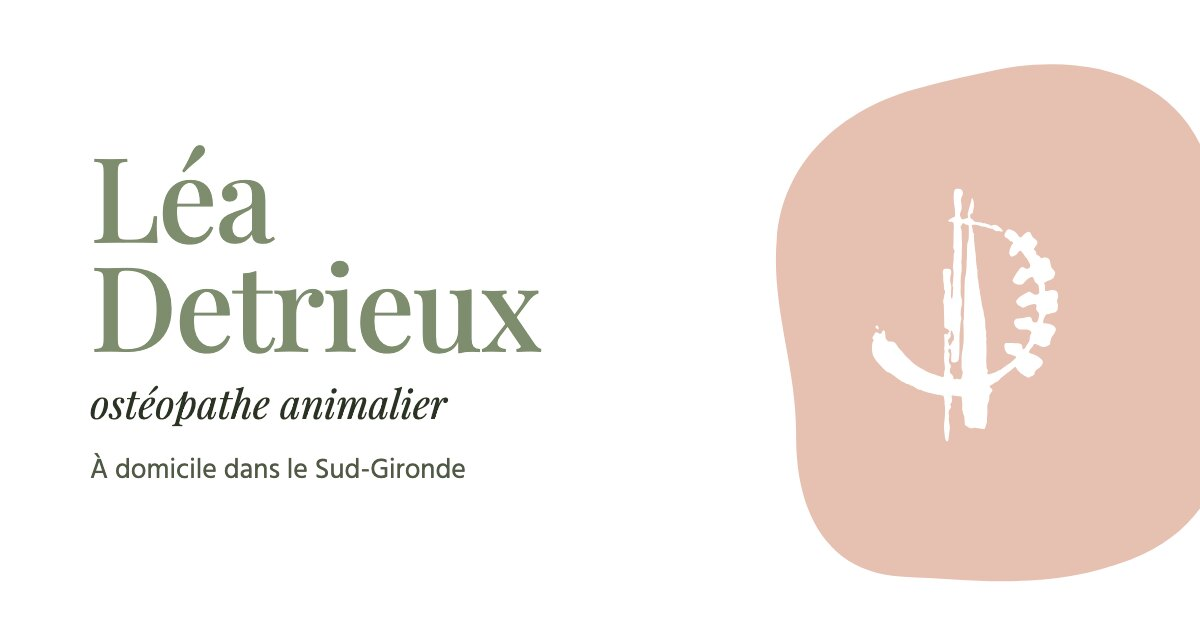
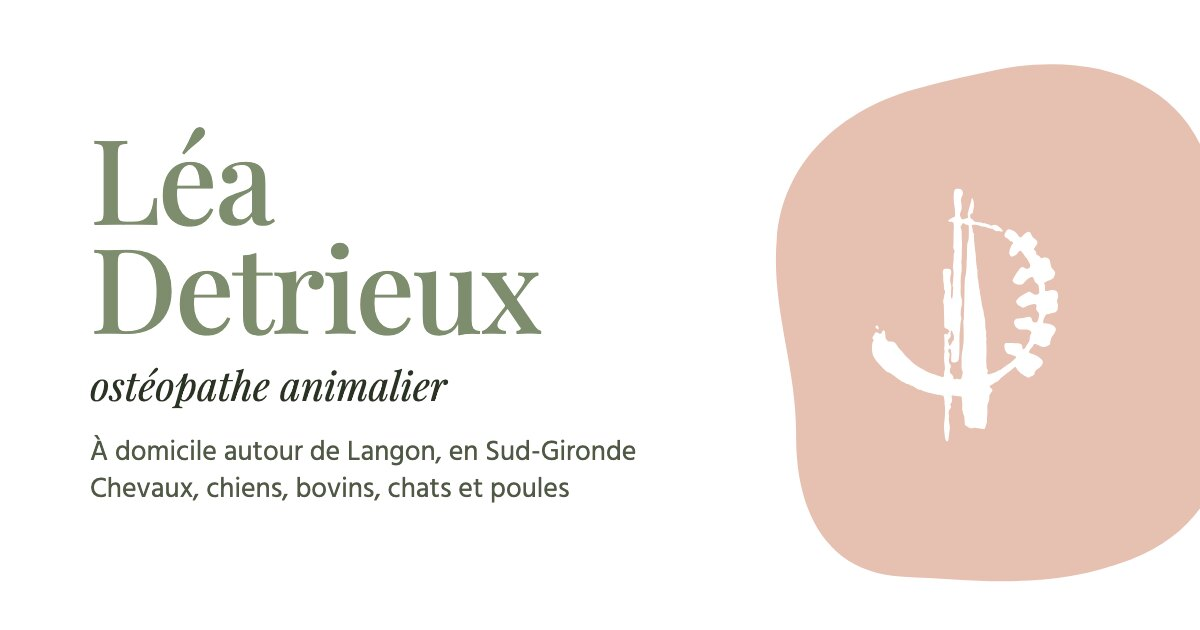
Link-preview card: Langon and the five animals
Re-rendered public/og.jpg from scripts/og.html (same layout, one more line).

Changed region(s): [[0.0617, 0.2111, 0.5242, 0.8143]]

diff --git a/scripts/og.html b/scripts/og.html
@@ -26,7 +26,7 @@
       <div>
         <h1>Léa<br>Detrieux</h1>
         <p>ostéopathe animalier</p>
-        <p class="where">À domicile dans le Sud-Gironde</p>
+        <p class="where">À domicile autour de Langon, en Sud-Gironde<br>Chevaux, chiens, bovins, chats et poules</p>
       </div>
       <div class="visual">
         <div class="blob"></div>
